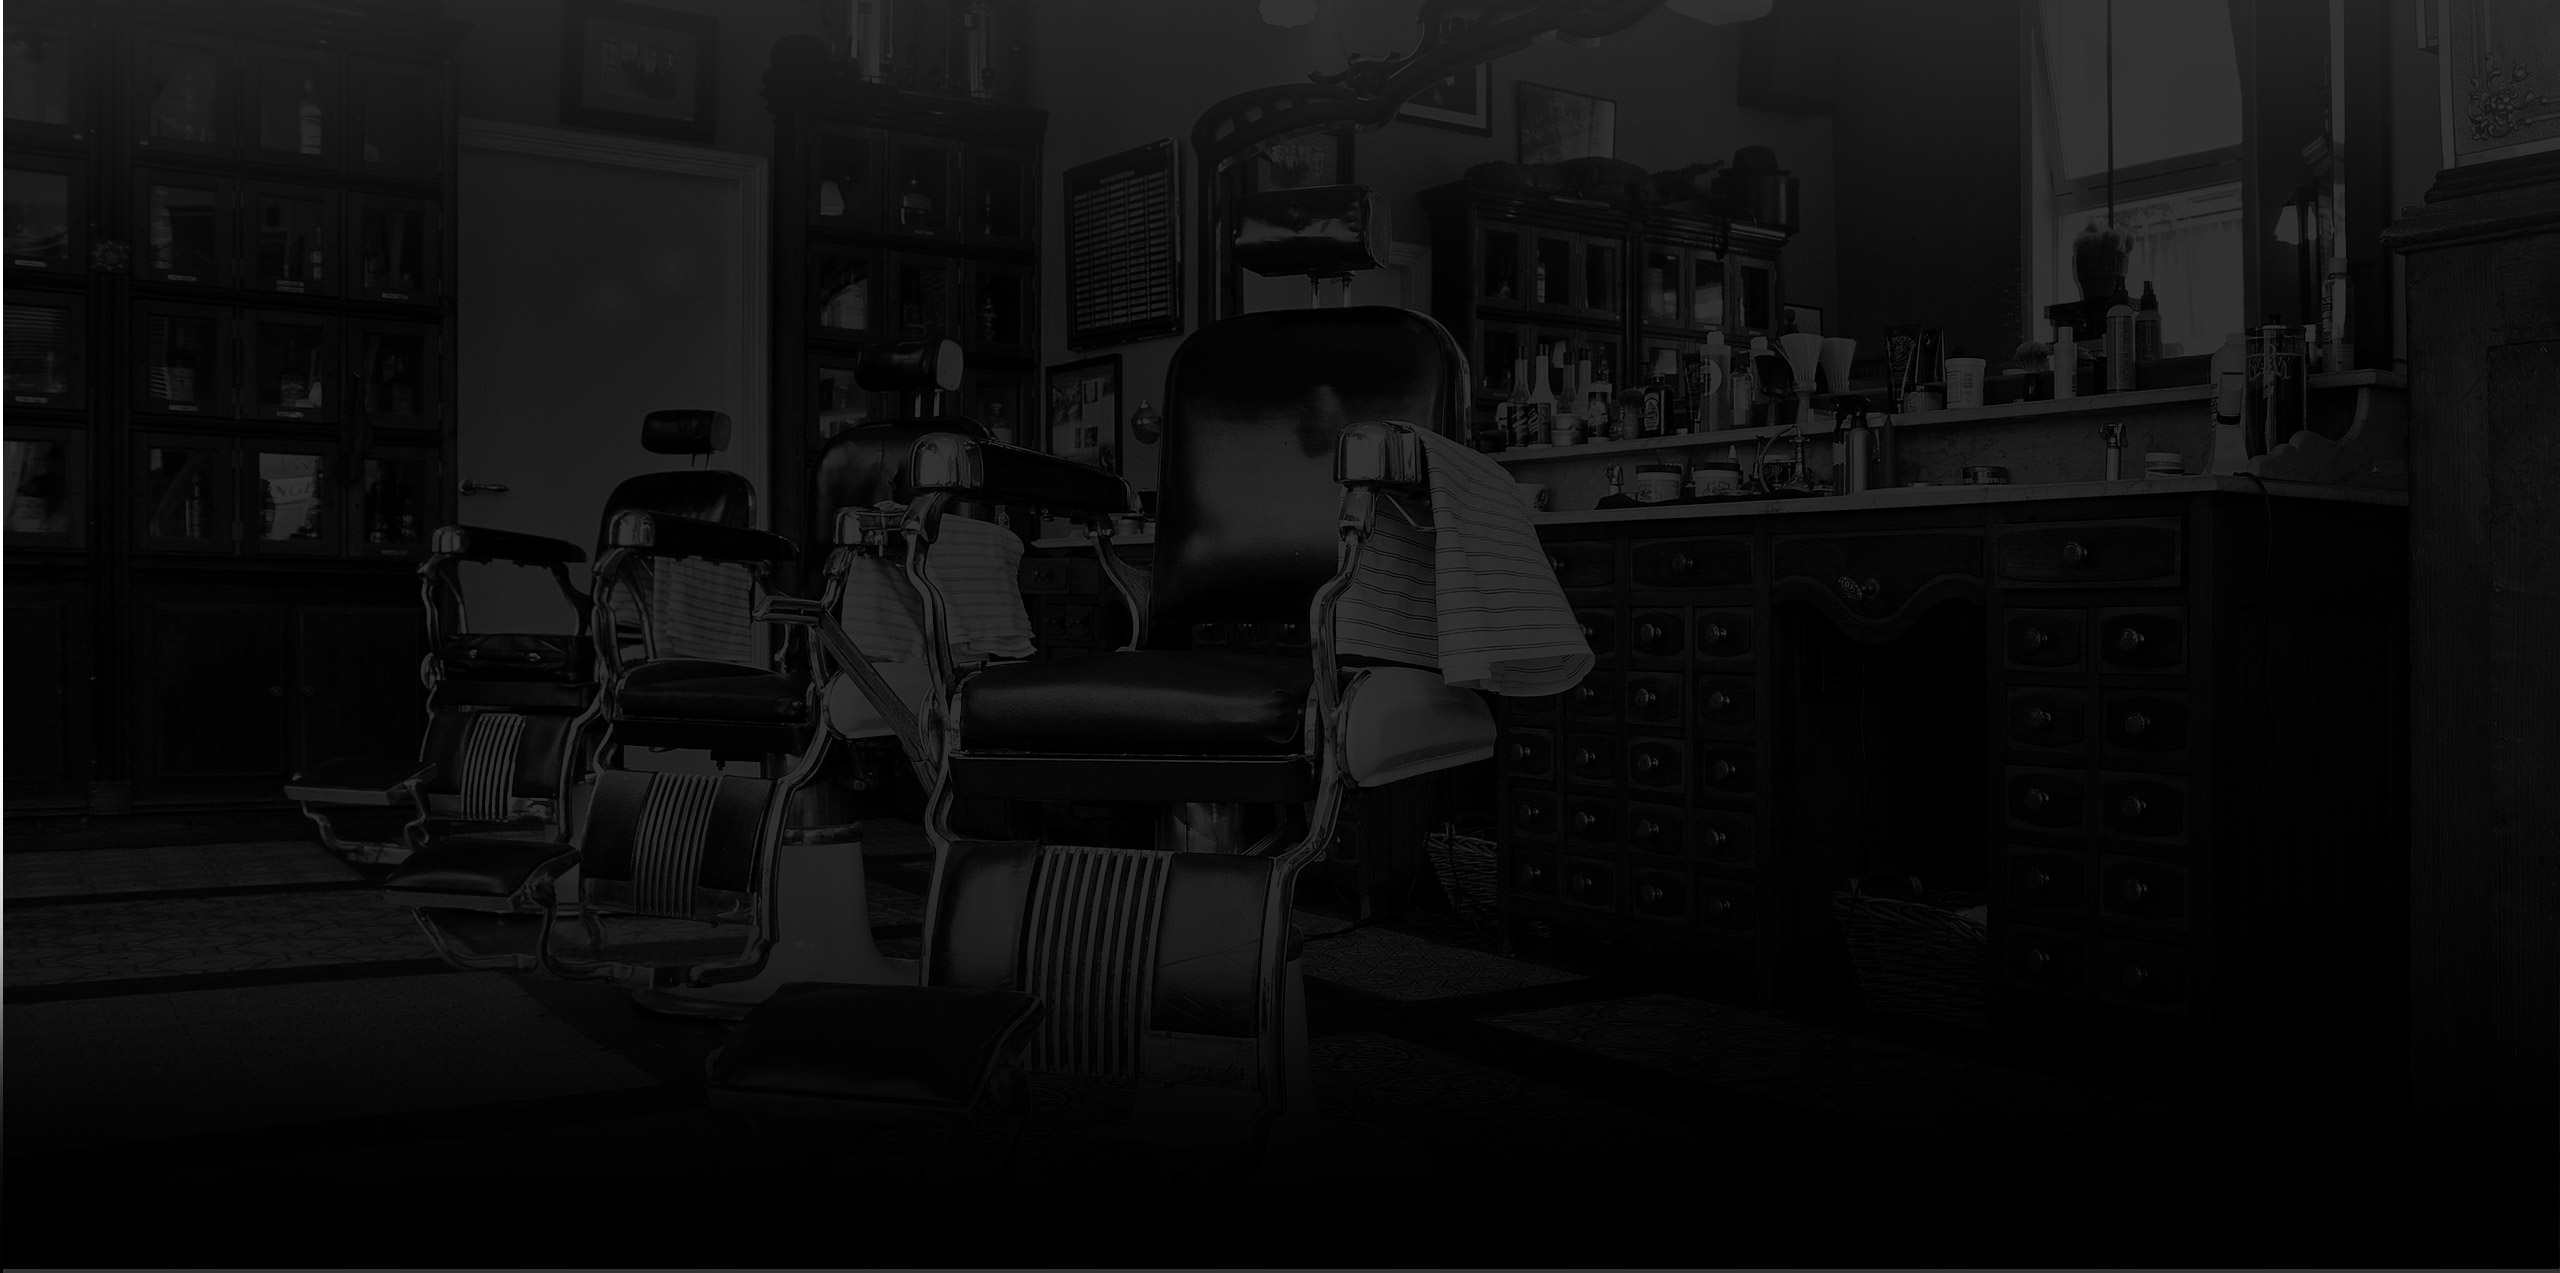
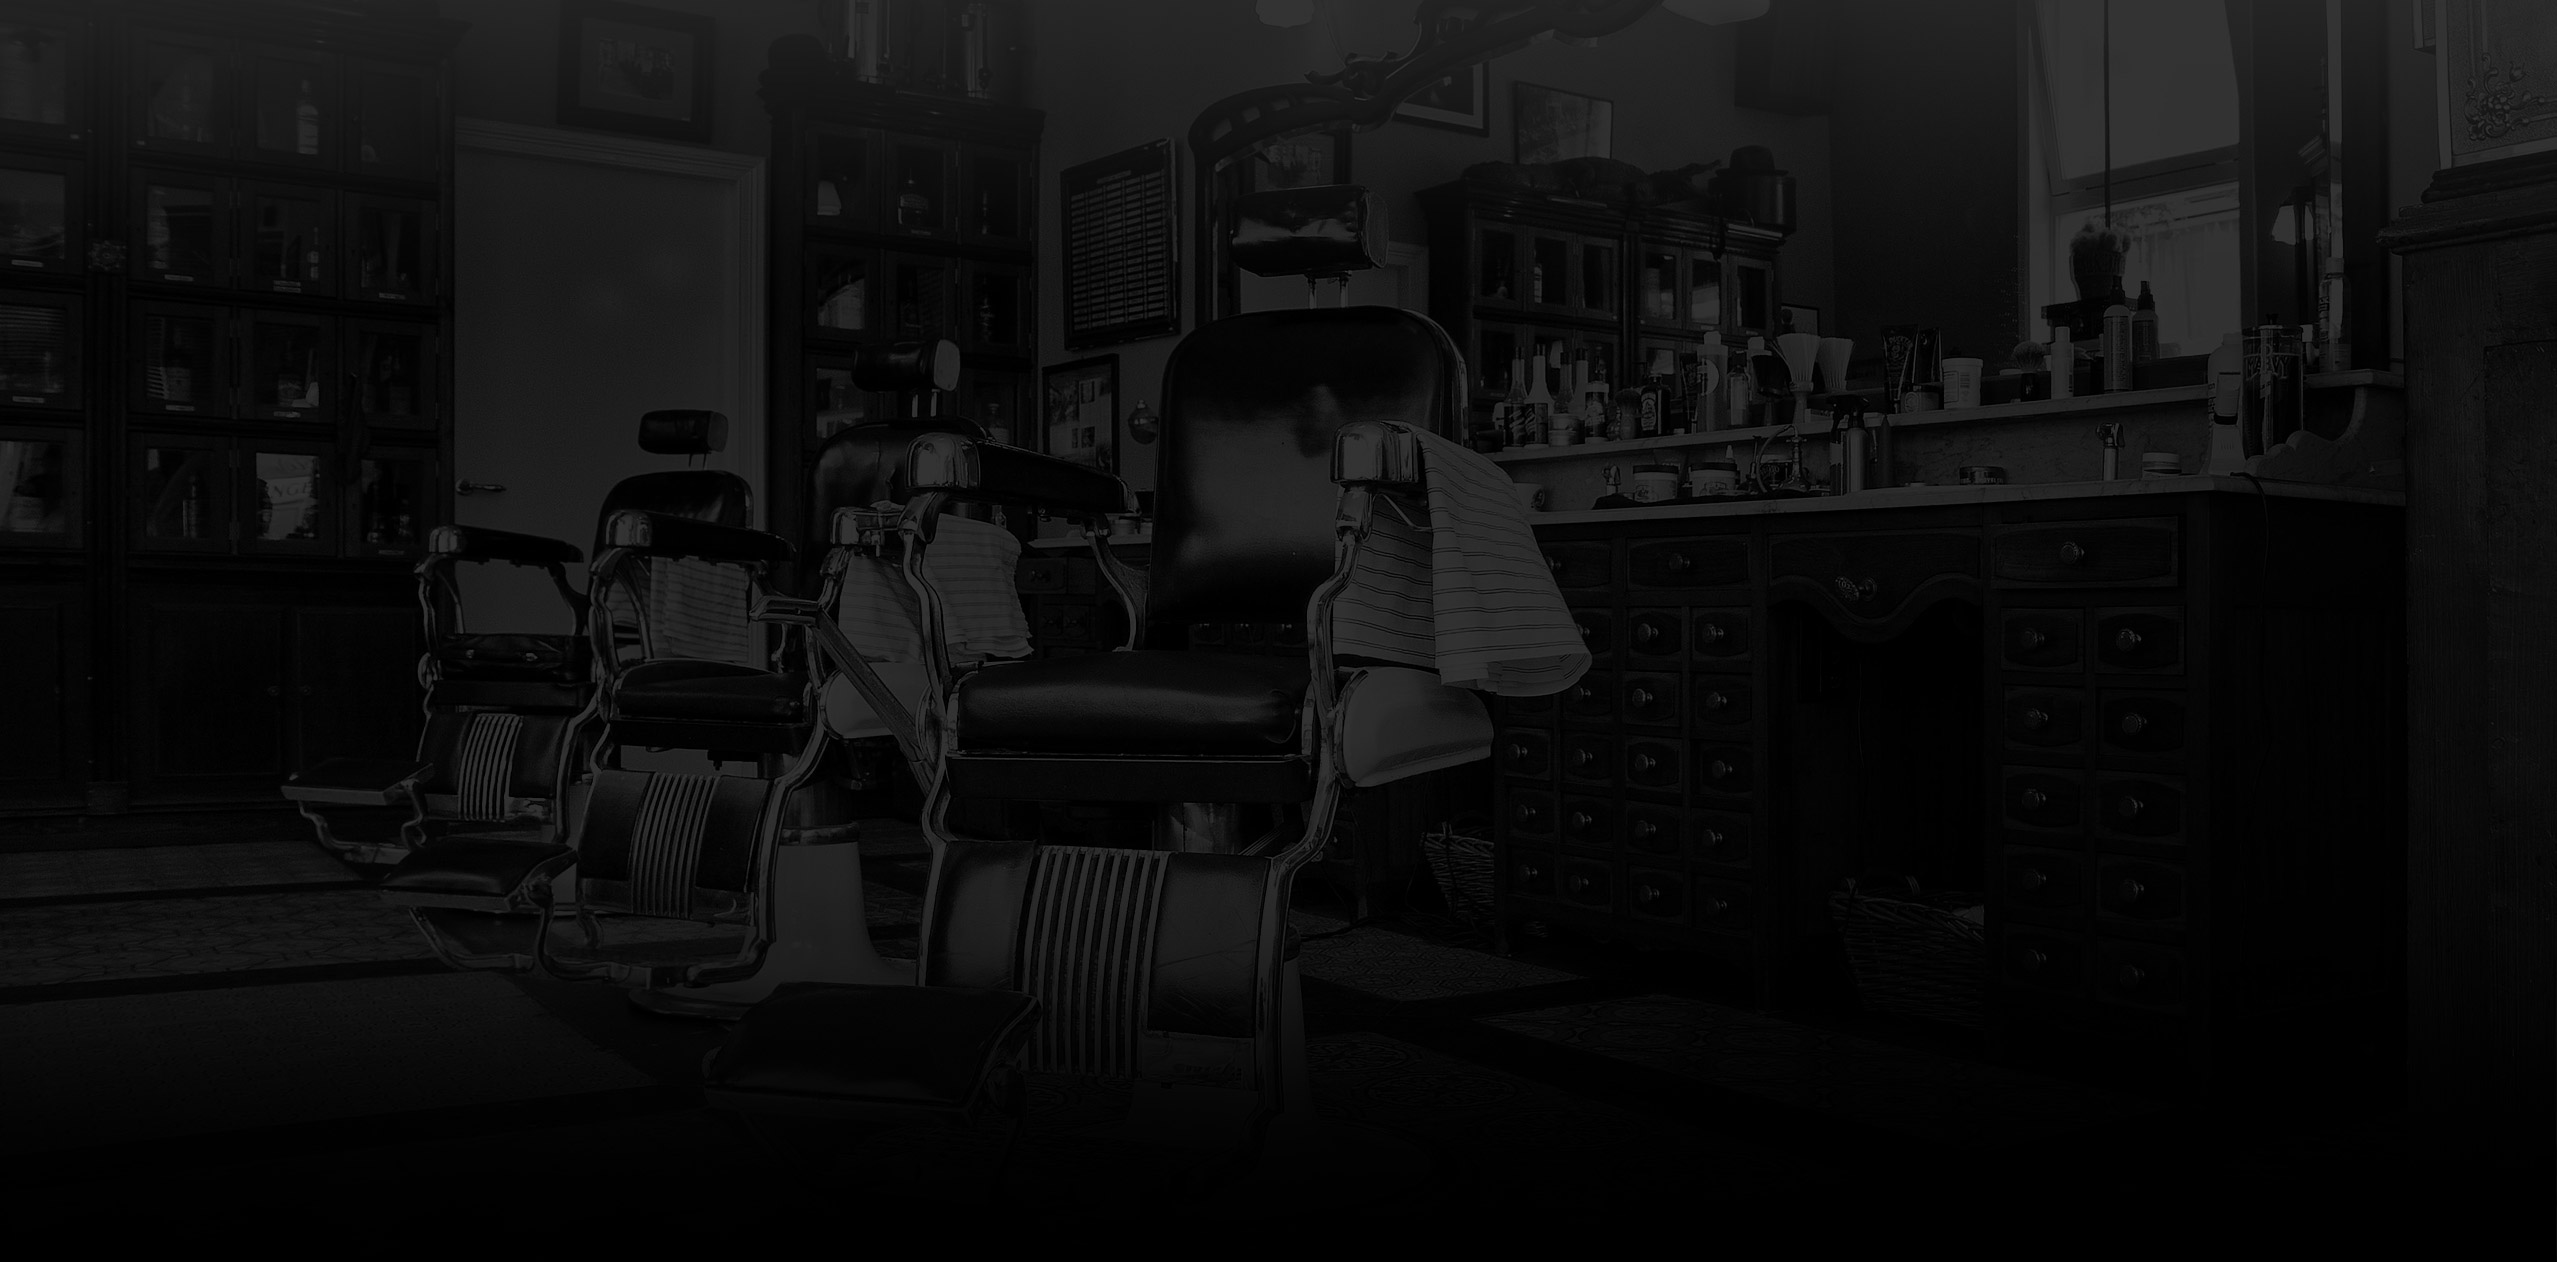
edit file style.sdd

diff --git a/assets/css/style.css b/assets/css/style.css
@@ -1,16 +1,19 @@
 body {
-    min-width: 940px;
     margin: 0;
     padding: 0;
-    background-color: black;
-    background-image: url("../image/index/fon_back.jpg") 
-    no-repeat center top;
+    
     font-size: 14px;
     line-height: 24px;
-    font-family: "PT Sans Narrow", sans-serif, Arial;
+    font-family: 'PT Sans Narrow', Arial, sans-serif;
     font-weight: 700;
     text-transform: uppercase;
-    color: white;
+    color: #ffffff;
+    text-transform: uppercase;
+
+    background-color: #000000;
+    background-image: url("../image/index/fon_back.jpg"); 
+    background-repeat: no-repeat; 
+    background-position: center top;
 }
 
 p, ul, h2 {
@@ -18,7 +21,7 @@ p, ul, h2 {
     padding: 0;
 }
 
-.visually-hidden {
+/* .visually-hidden {
     position: absolute;
     width: 1px;
     height: 1px;
@@ -27,4 +30,58 @@ p, ul, h2 {
     padding: 0;
     clip: rect(0 0 0 0 );
     overflow: hidden;
+} */
+
+a {
+    text-decoration: none;
+}
+
+.main-navigation {
+    font-size: 16px;
+    line-height: 20px;
+    color: #ffffff;
+
+    background-color: #000000;
+}
+
+.site-navigation,
+.user-navigation {
+    list-style: none;
+}
+
+.site-navigation a,
+.user-navigation a {
+    color: #ffffff;
+}
+
+.site-navigation a:hover,
+.site-navigation a:focus,
+.user-navigation a:hover,
+.user-navigation a:focus {
+    background-color: #242424;
+}
+
+.features-list {
+    list-style: none;
+}
+
+.feature-item {
+    text-align: center;
+}
+
+.feature-item h3 {
+    font-size: 30px;
+    line-height: 42px;
+}
+
+.feature-item p {
+    font-size: 14px;
+    line-height: 24px;
+}
+
+.index-columns {
+    color: #000000;
+
+    background-color: #f5f2ef;
+    
 }

diff --git a/shop.html b/shop.html
@@ -115,7 +115,7 @@
 					</a>
 					<p class="catalog-item-price">
 						<b>2 900
-							<i class="fas fa-ruble-sign">Рублей</i>
+							<i class="fas fa-ruble-sign">Р</i>
 						</b>
 						<a class="button" href="#">Купить</a>
 					</p>
@@ -134,7 +134,7 @@
 					</a>
 					<p class="catalog-item-price">
 						<b>750
-							<i class="fas fa-ruble-sign">Рублей</i>
+							<i class="fas fa-ruble-sign">Р</i>
 						</b>
 						<a class="button" href="#">Купить</a>
 					</p>
@@ -153,7 +153,7 @@
 					</a>
 					<p class="catalog-item-price">
 						<b>290
-							<i class="fas fa-ruble-sign">Рублей</i>
+							<i class="fas fa-ruble-sign">Р</i>
 						</b>
 						<a class="button" href="#">Купить</a>
 					</p>
@@ -172,7 +172,7 @@
 					</a>
 					<p class="catalog-item-price">
 						<b>500
-							<i class="fas fa-ruble-sign">Рублей</i>
+							<i class="fas fa-ruble-sign">Р</i>
 						</b>
 						<a class="button" href="#">Купить</a>
 					</p>
@@ -190,7 +190,7 @@
 						</p>
 						<p class="catalog-item-price">
 							<b>300
-								<i class="fas fa-ruble-sign">Рублей</i>
+								<i class="fas fa-ruble-sign">Р</i>
 							</b>
 							<a class="button" href="#">Купить</a>
 						</p>
@@ -211,7 +211,7 @@
 					</a>
 					<p class="catalog-item-price">
 						<b>3 900
-							<i class="fas fa-ruble-sign">Рублей</i>
+							<i class="fas fa-ruble-sign">Р</i>
 						</b>
 						<a class="button" href="#">Купить</a>
 					</p>

diff --git a/index.html b/index.html
@@ -3,11 +3,10 @@
 
 <head>
     <meta charset="utf-8">
-    <!-- <link rel="stylesheet" href="assets/css/style.css"> -->
 
-    <link
-        href="https://fonts.googleapis.com/css?family=PT+Sans+Narrow:400,700&display=swap&subset=cyrillic,cyrillic-ext,latin-ext"
-        rel="stylesheet">
+    <link rel="stylesheet" href="assets/css/style.css">
+
+    <link href="https://fonts.googleapis.com/css?family=PT+Sans+Narrow:400,700&display=swap&subset=cyrillic" rel="stylesheet">
 
     <title>
         Барбершоп "Бородинский"
@@ -66,6 +65,7 @@
 
         </section>
 
+        <div class="index-columns">
         <section class="news">
             <h2>Новости</h2>
             <ul class="news-list">
@@ -93,6 +93,7 @@
             <button class="button gallery-button gallery-button-back">Назад</button>
             <button class="button gallery-button gallery-button-next">Вперед</button>
         </section>
+    </div>
 
         <section class="contacts">
             <h2>Контактная информация</h2>
